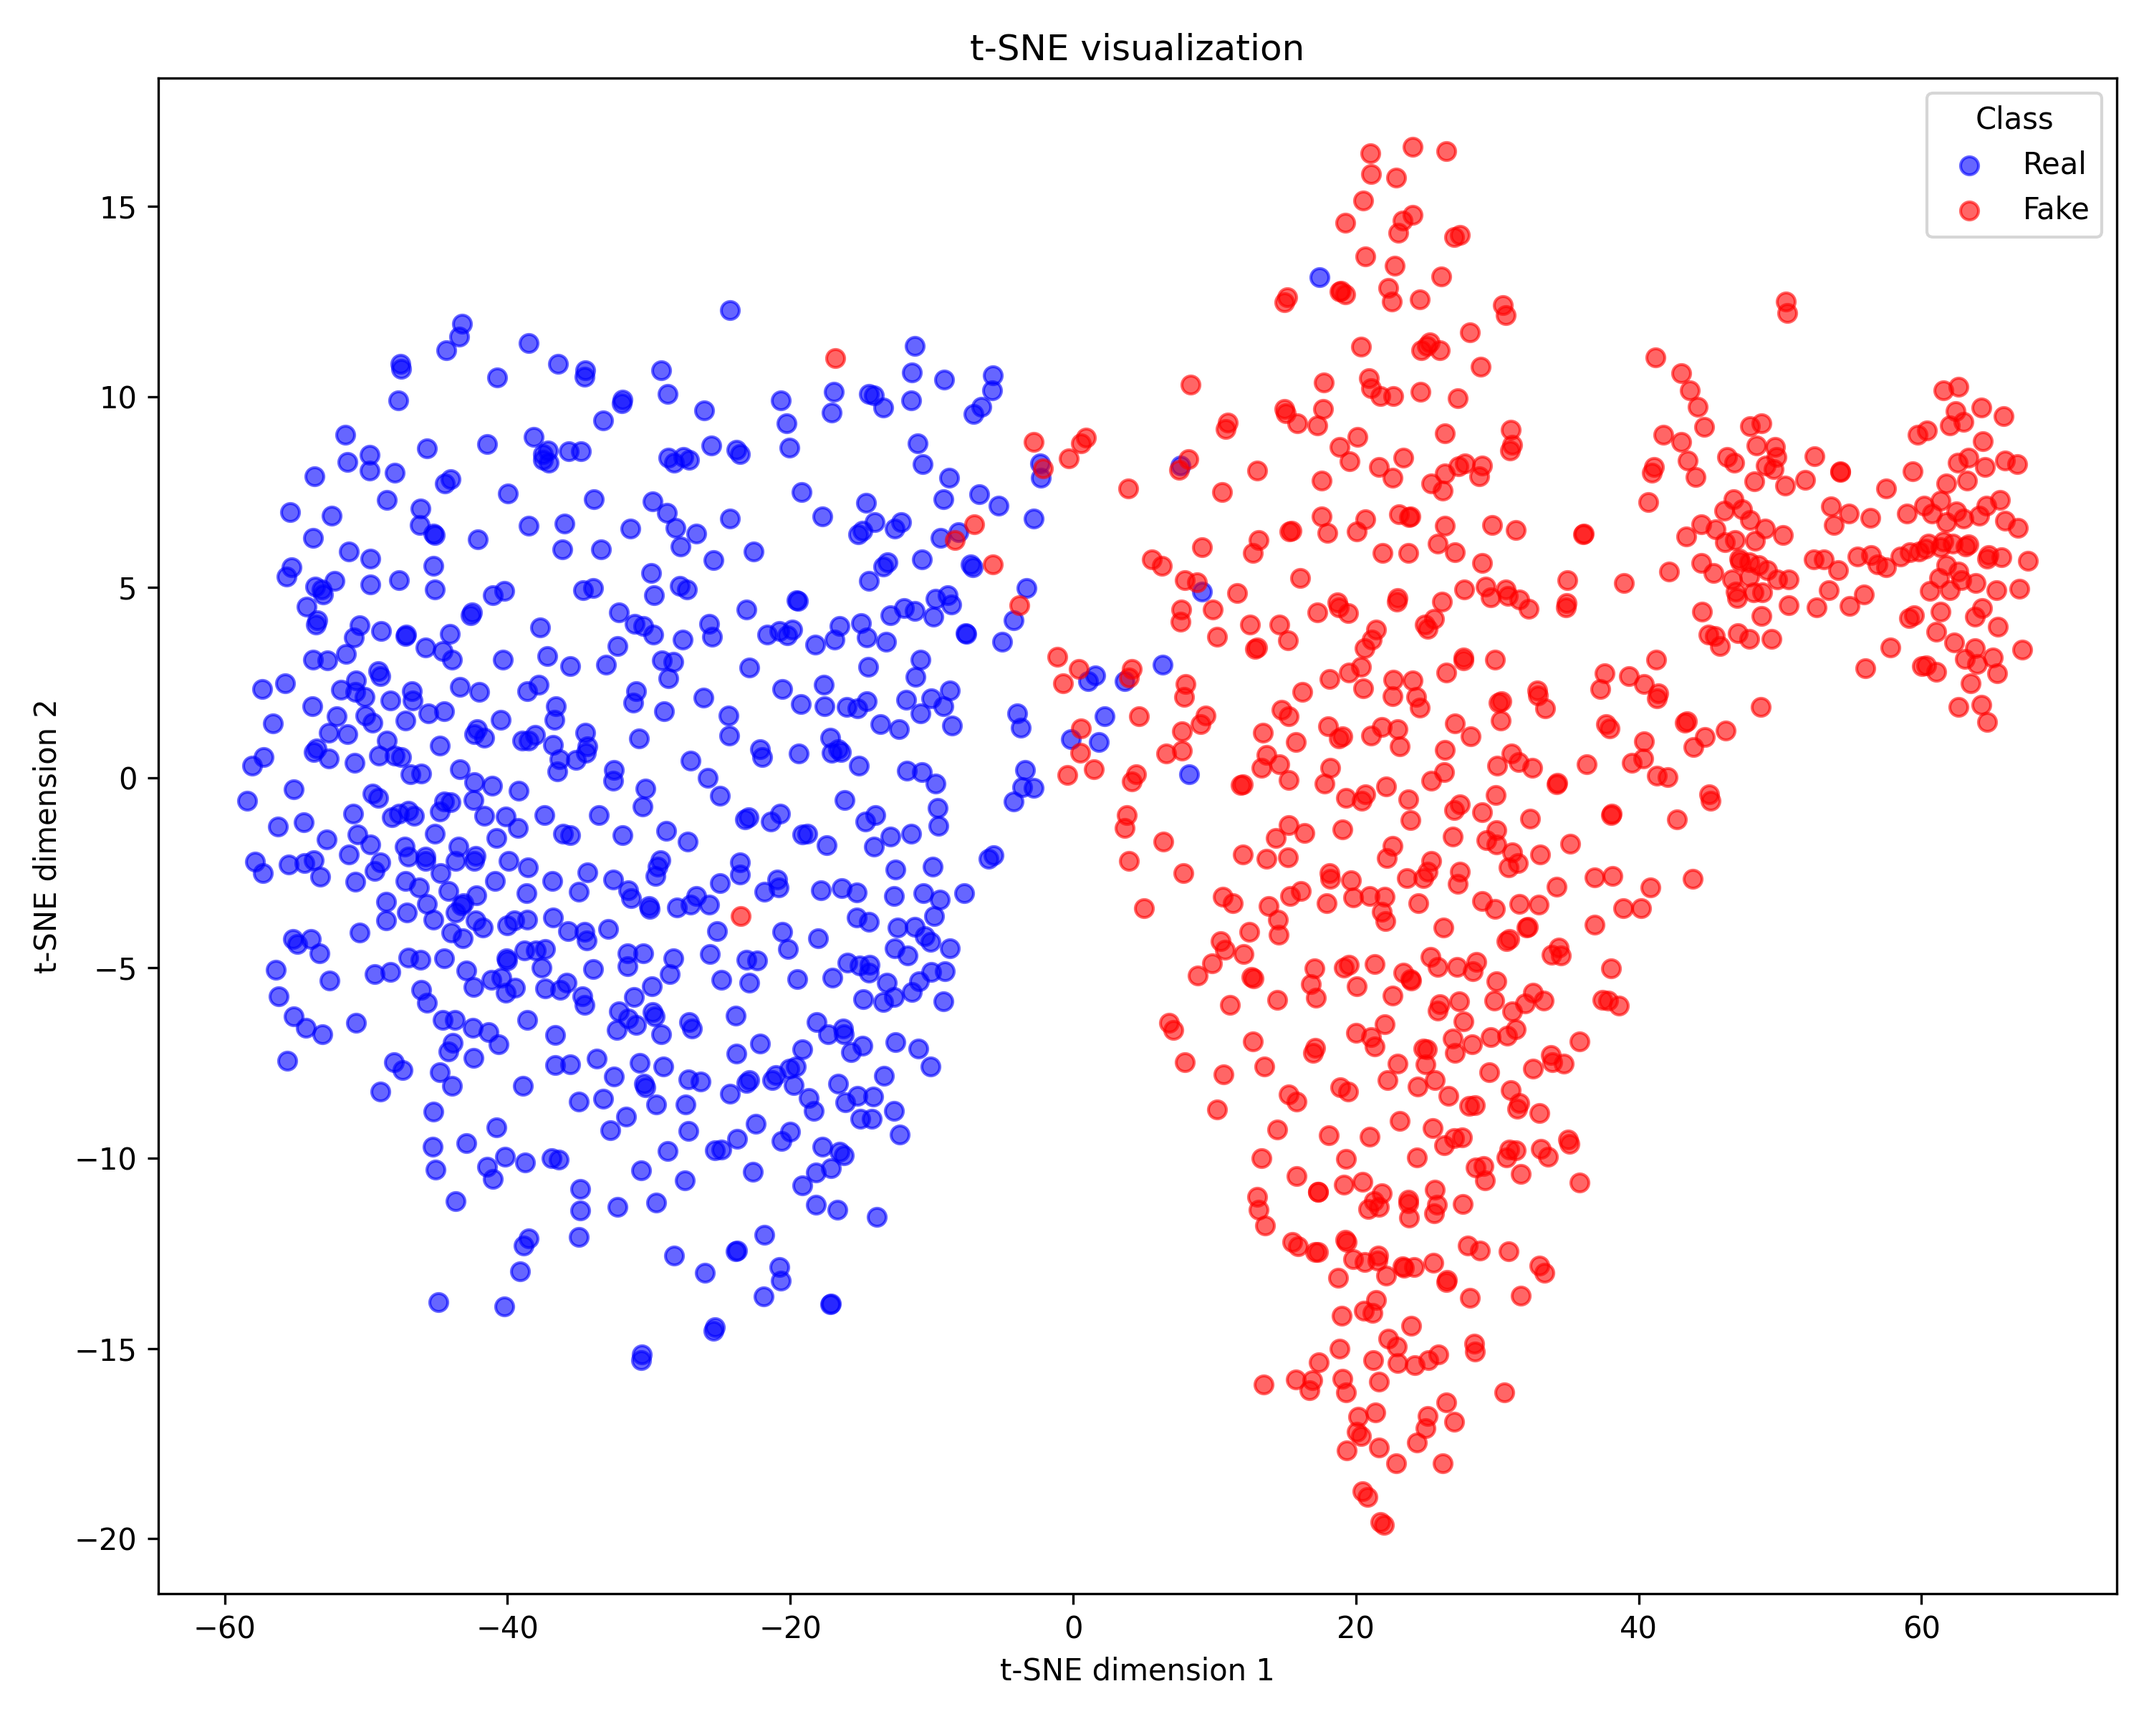
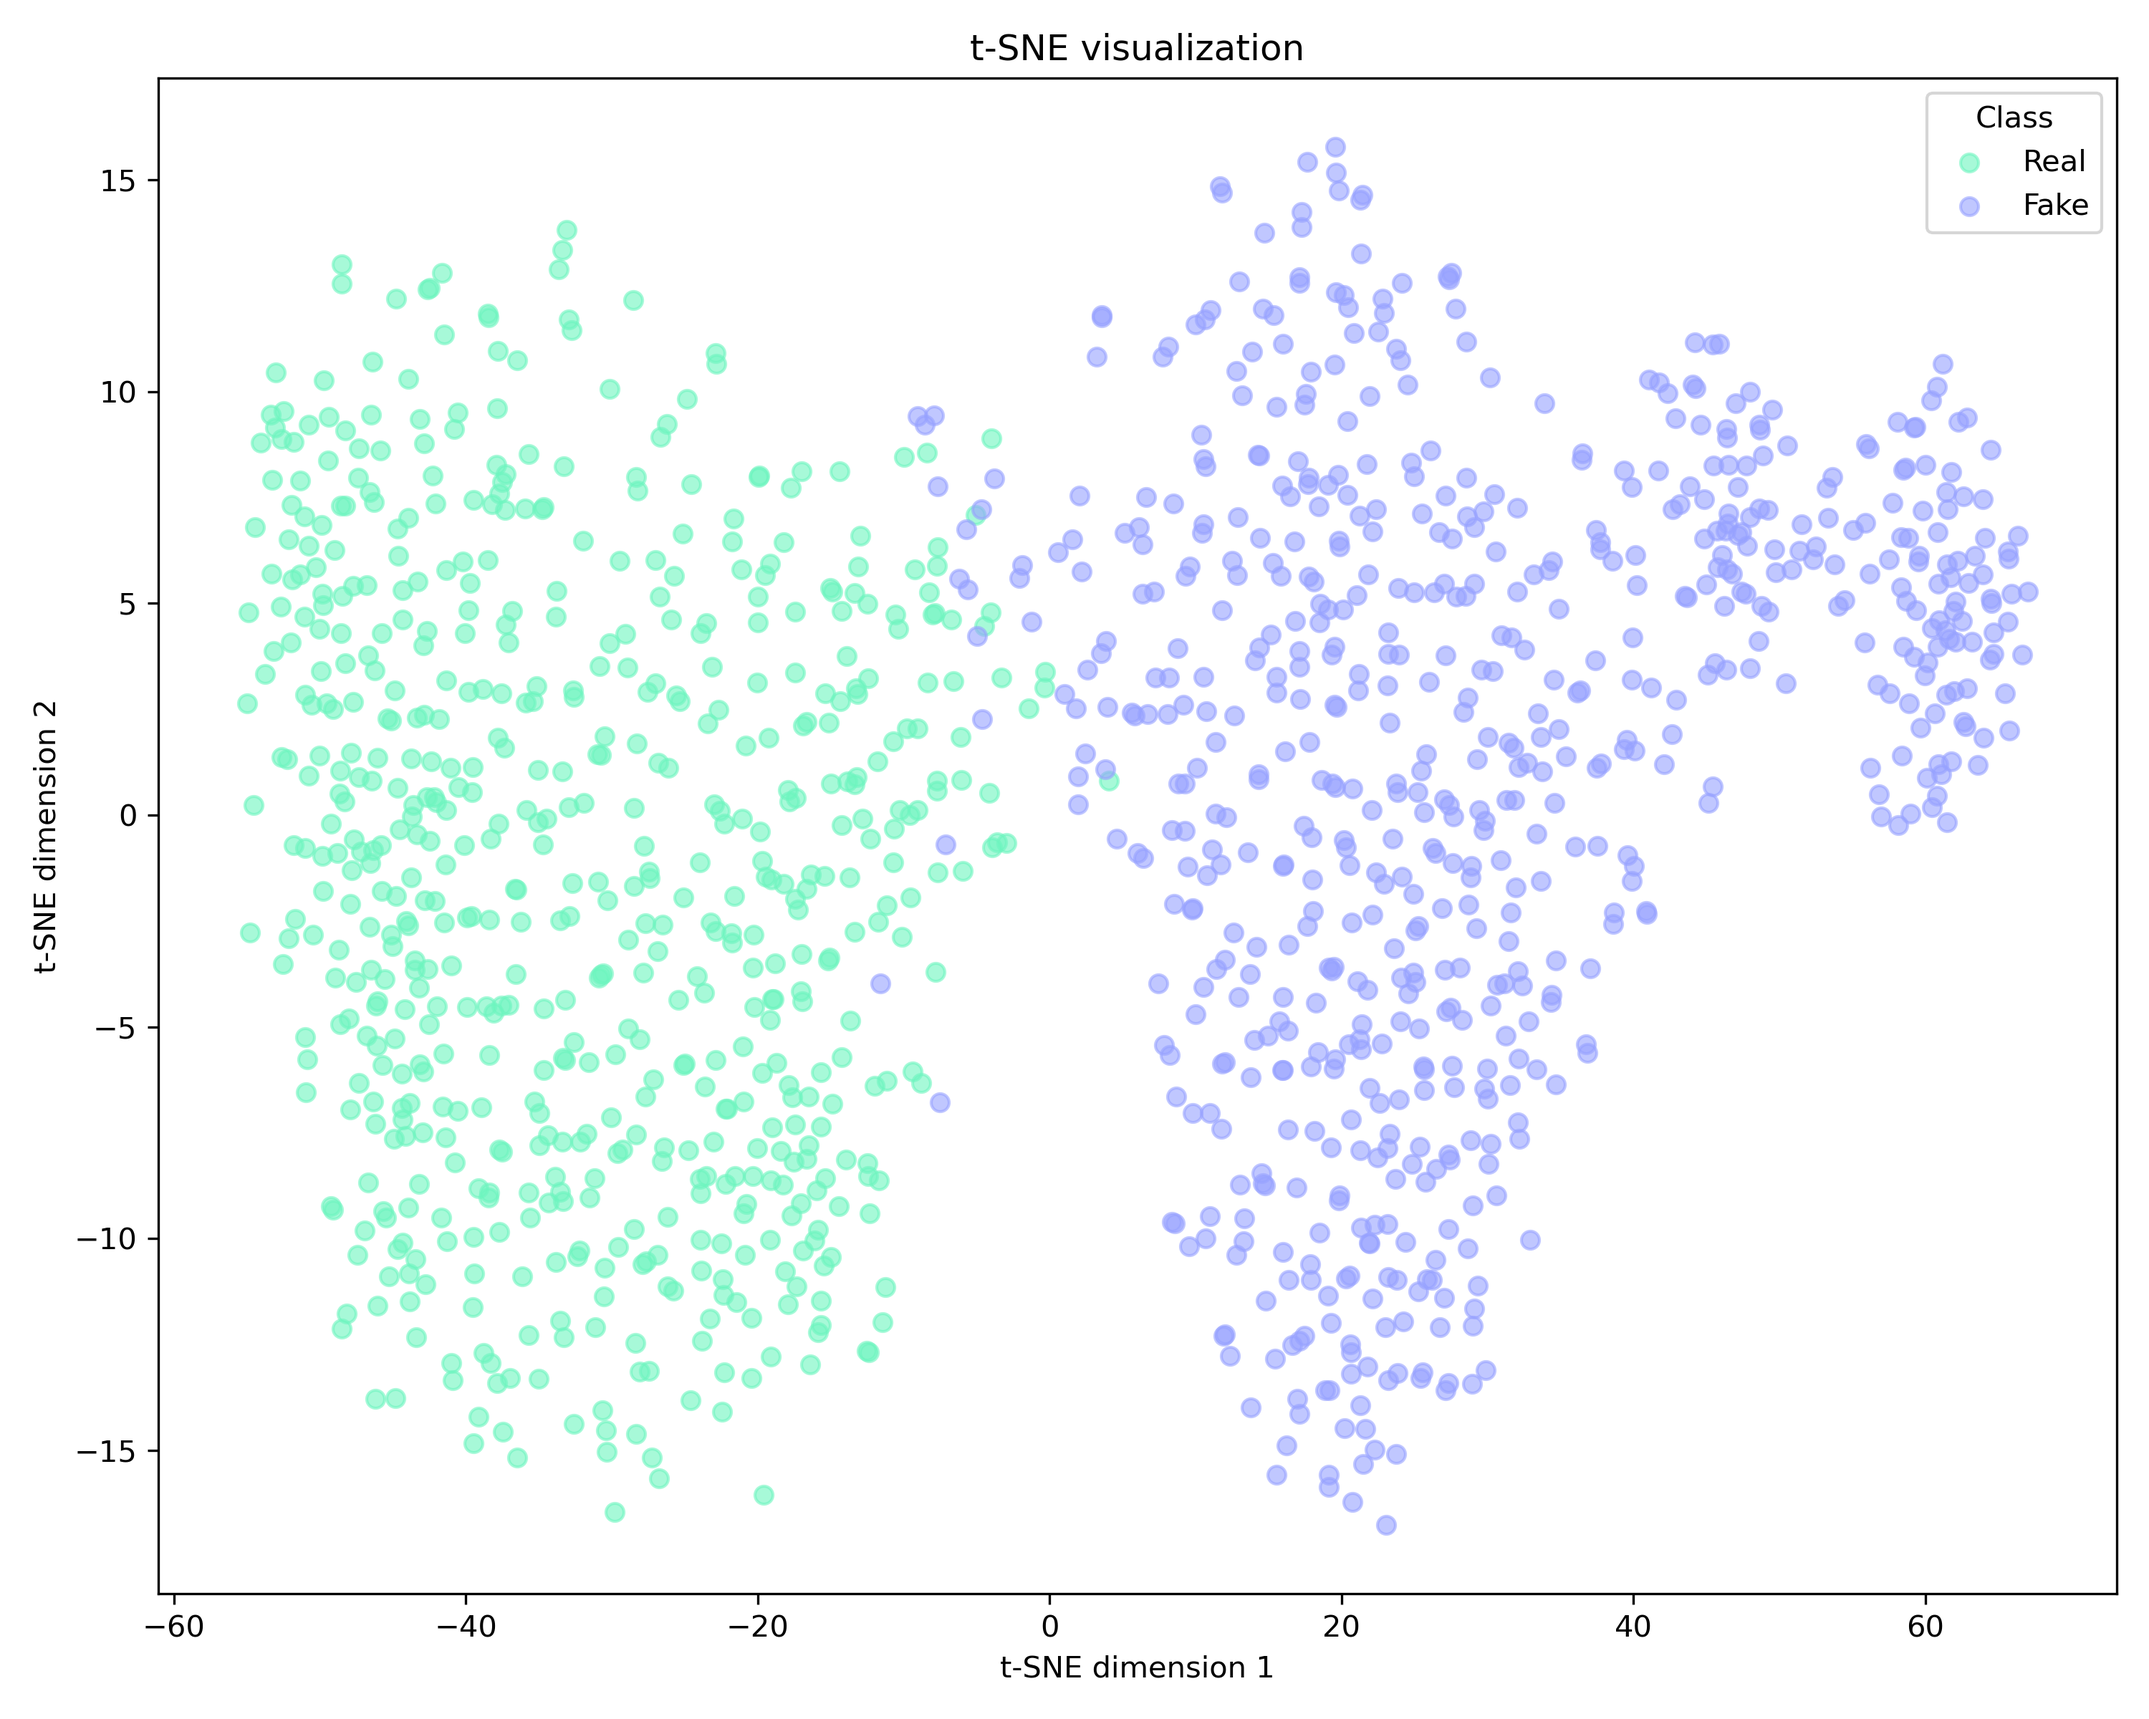
Update t-SNE visualization colors and add new output images: change scatter plot colors for 'Real' and 'Fake' classes, and update t-SNE output images for SwinTinyBinary model.

diff --git a/plot_tsne_torch.py b/plot_tsne_torch.py
@@ -136,9 +136,9 @@ def plot_tsne(features, labels=None, output_path='tsne_plot.png', perplexity=30,
             fake_mask = labels == 1
             
             plt.scatter(features_tsne[real_mask, 0], features_tsne[real_mask, 1], 
-                       alpha=0.6, c='blue', label='Real')
+                       alpha=0.6, c="#6df5bf", label='Real')
             plt.scatter(features_tsne[fake_mask, 0], features_tsne[fake_mask, 1], 
-                       alpha=0.6, c='red', label='Fake')
+                       alpha=0.6, c='#97a2ff', label='Fake')
             
             plt.legend(title='Class')
             plt.xlabel('t-SNE dimension 1')
